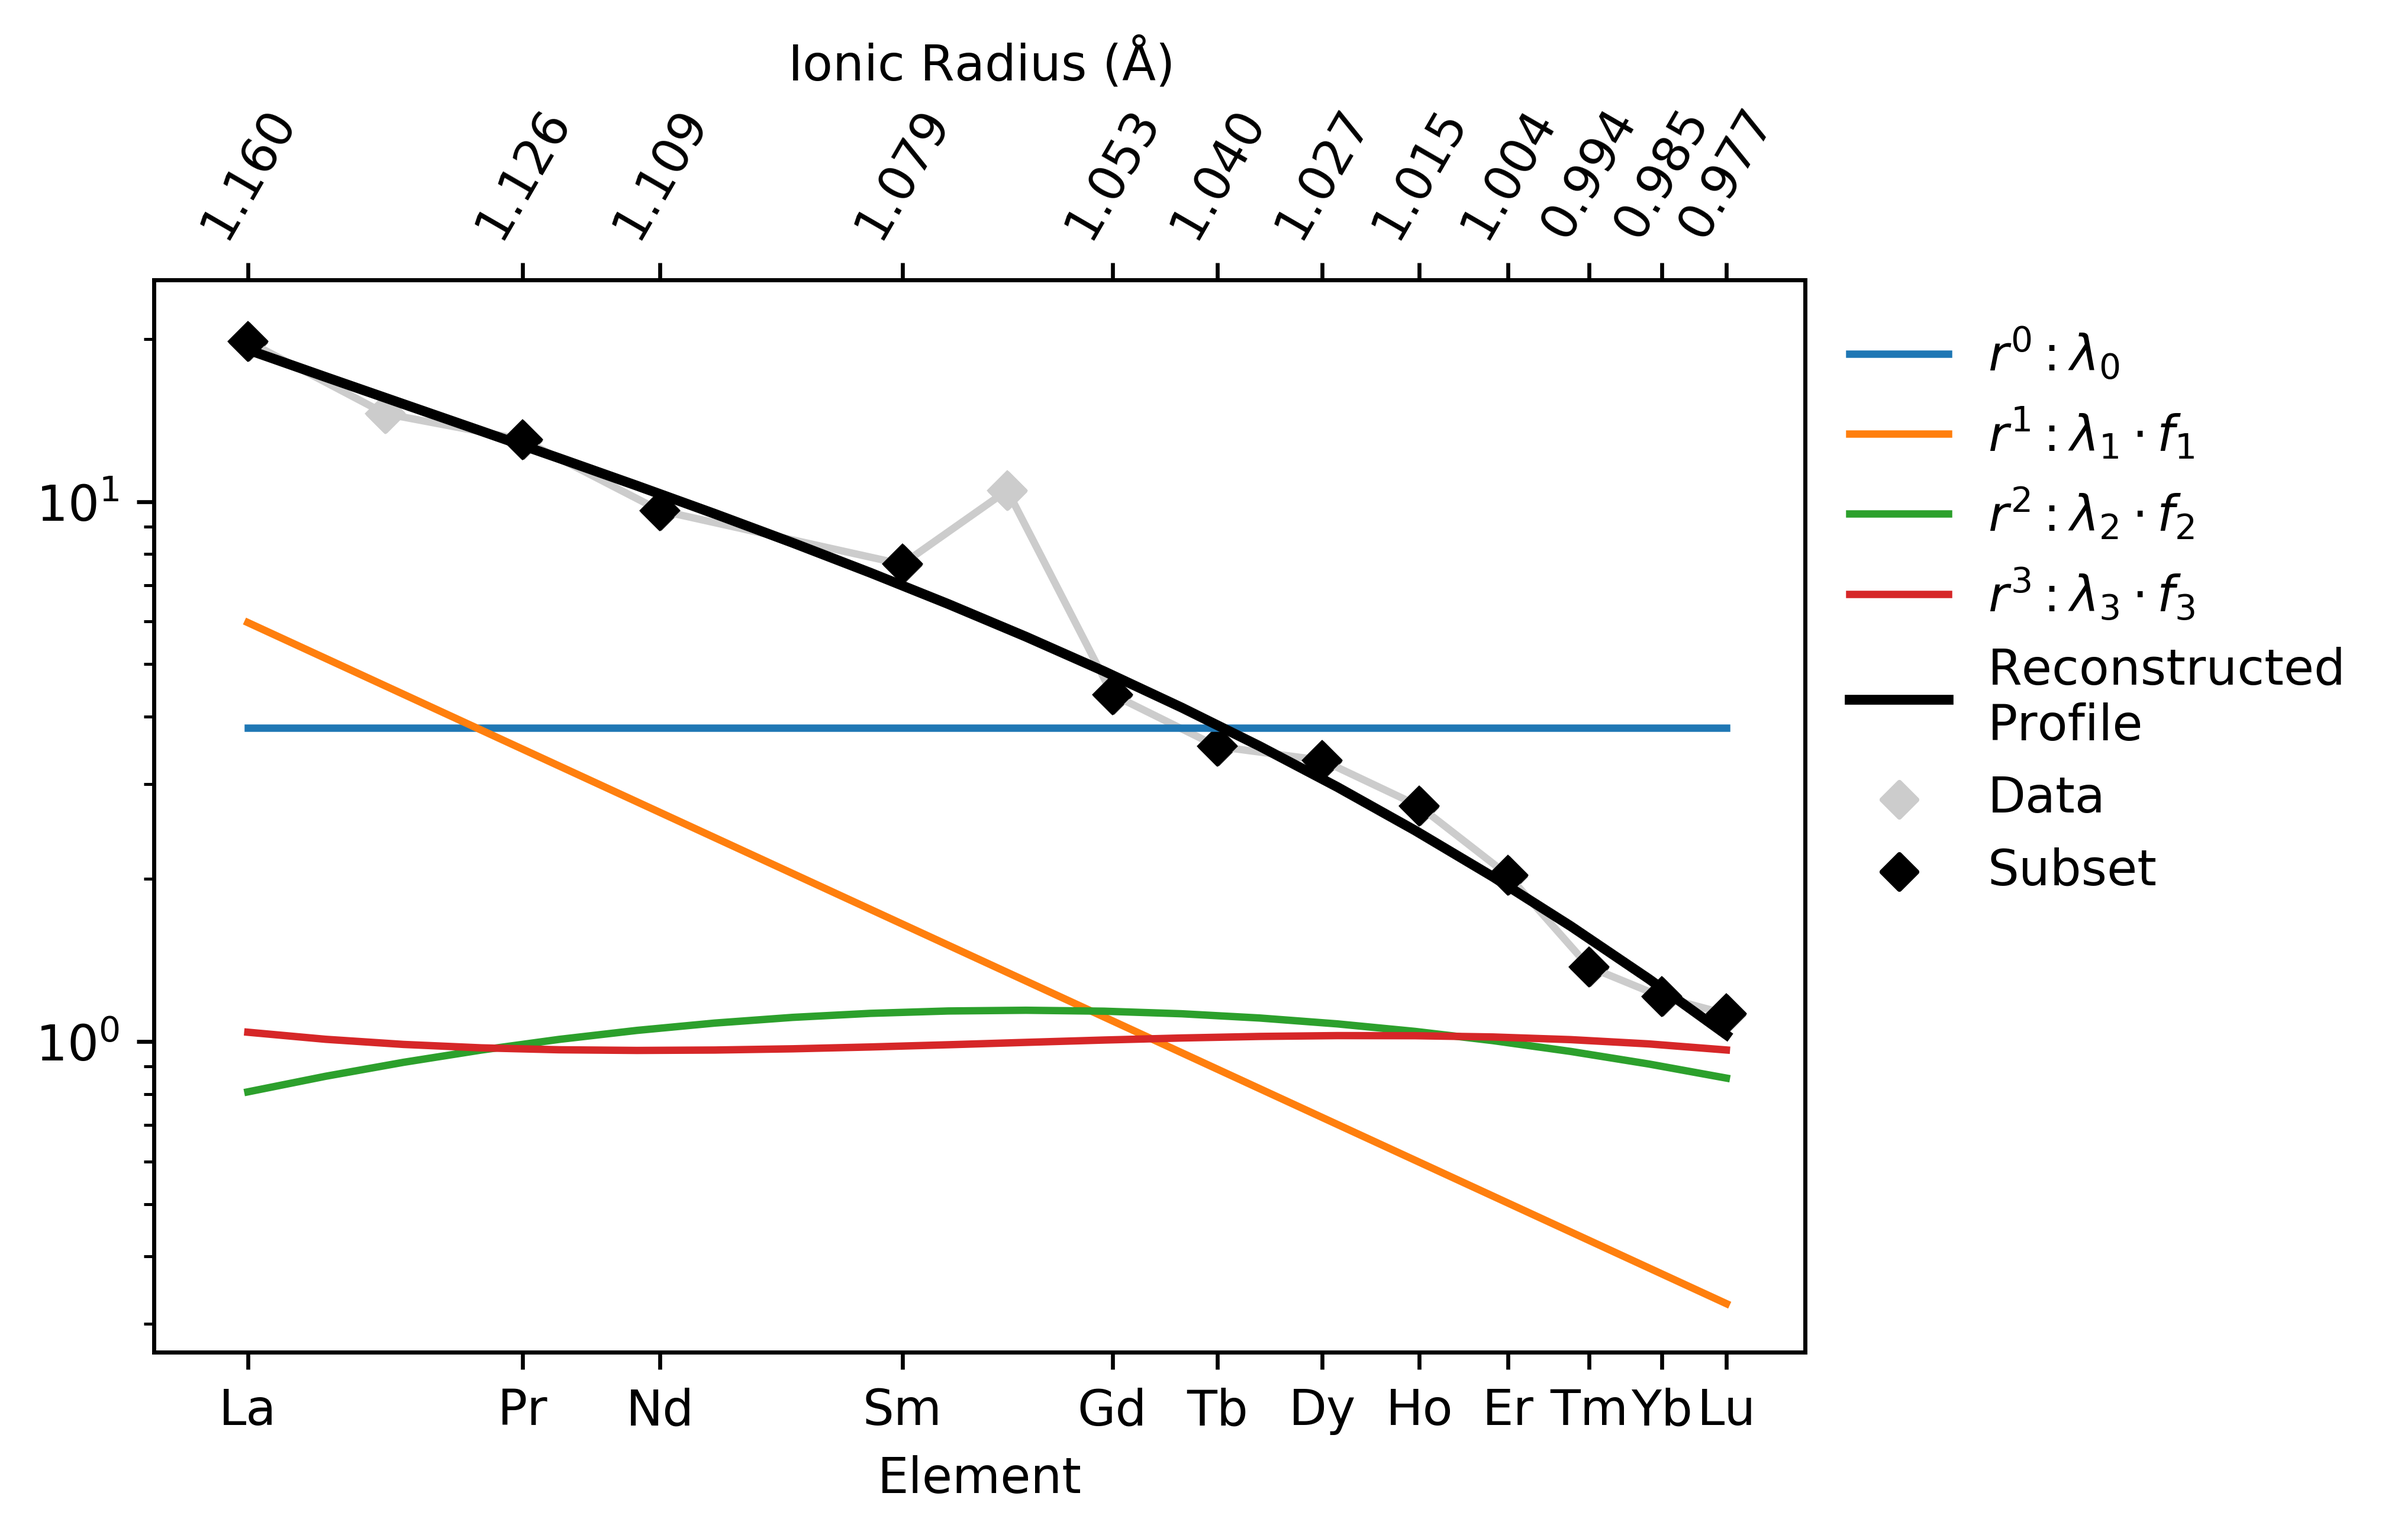
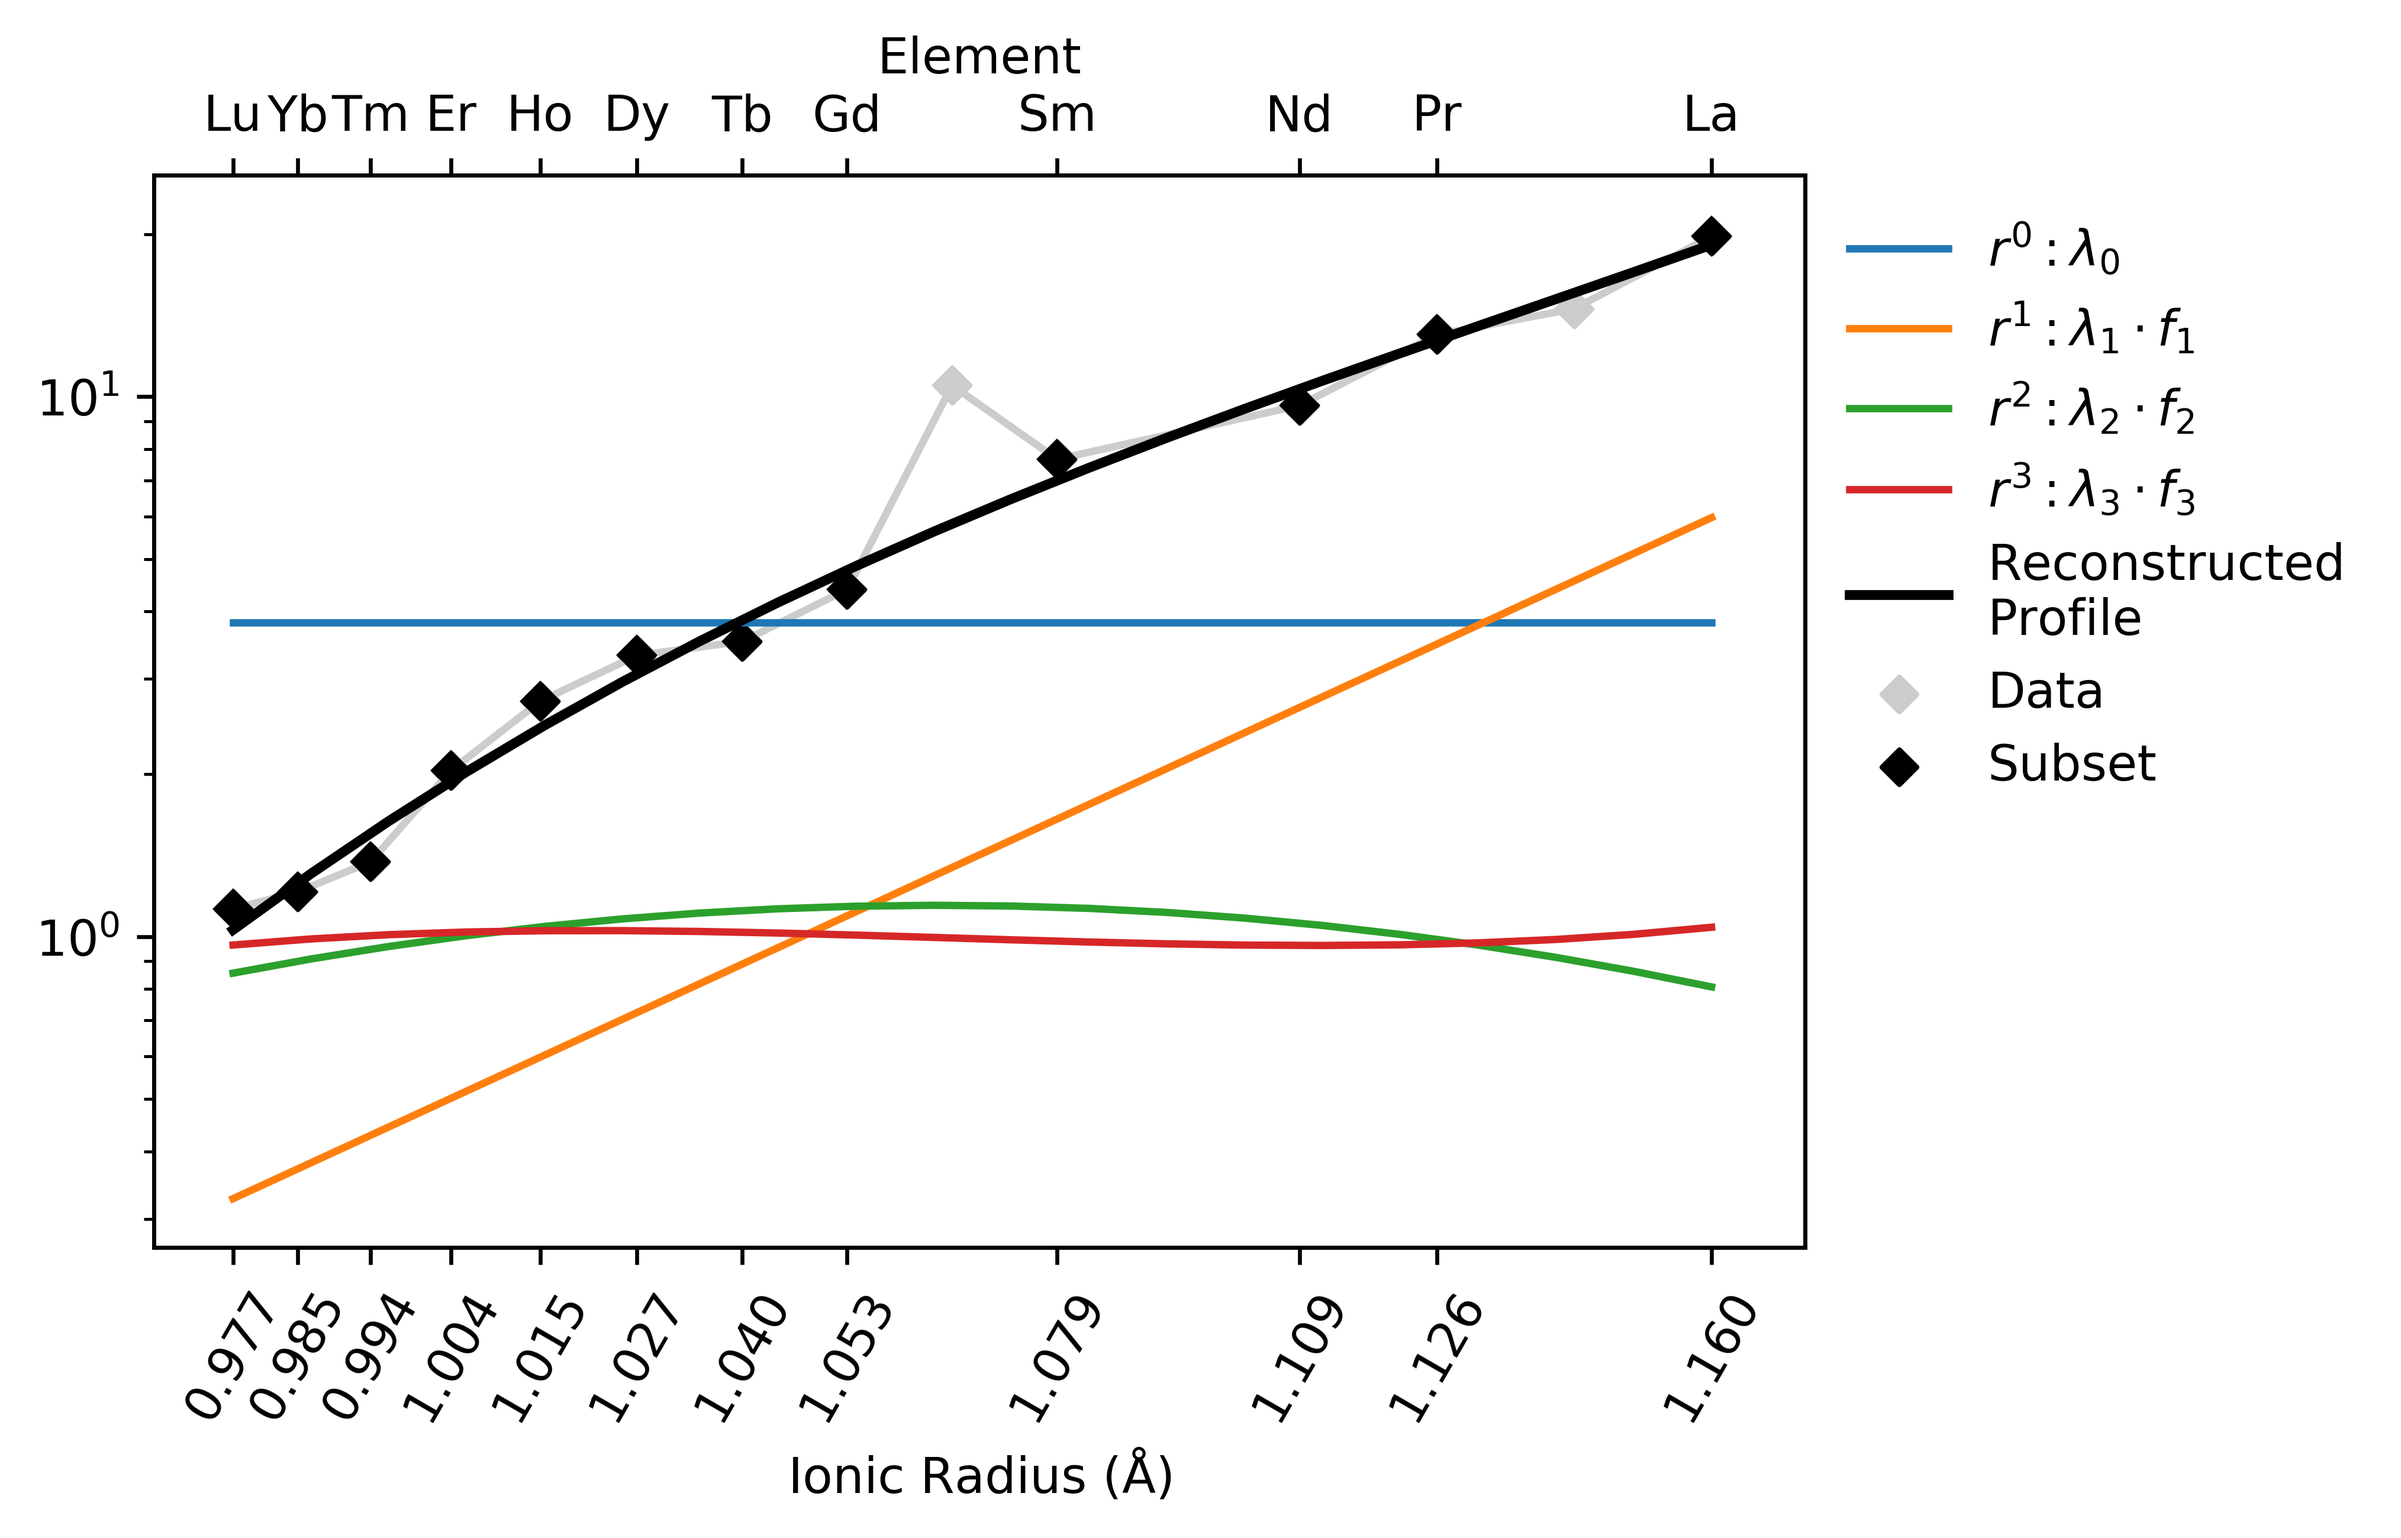
Update lambdas example index to radii

diff --git a/docs/examples/lambdas/orthogonal_polynomials.py b/docs/examples/lambdas/orthogonal_polynomials.py
@@ -54,8 +54,8 @@ continuous_radii = np.linspace(subset_radii[0], subset_radii[-1], 20)
 l_func = lambda_poly_func(ls, pxs=subset_radii, params=params)
 smooth_profile = np.exp(l_func(continuous_radii))
 # %% Plot the Results ------------------------------------------------------------------
-ax = REE_v_radii(Y, ree=data_ree, color="0.8", label="Data")
-REE_v_radii(subset_Y, ree=subset_ree, ax=ax, color="k", linewidth=0, label="Subset")
+ax = REE_v_radii(Y, ree=data_ree, index='radii', color="0.8", label="Data")
+REE_v_radii(subset_Y, ree=subset_ree, ax=ax,  index='radii', color="k", linewidth=0, label="Subset")
 plot_orthagonal_polynomial_components(ax, continuous_radii, ls, params, log=True)
 ax.plot(continuous_radii, smooth_profile, label="Reconstructed\nProfile", c="k", lw=2)
 ax.legend(frameon=False, facecolor=None, bbox_to_anchor=(1, 1))
